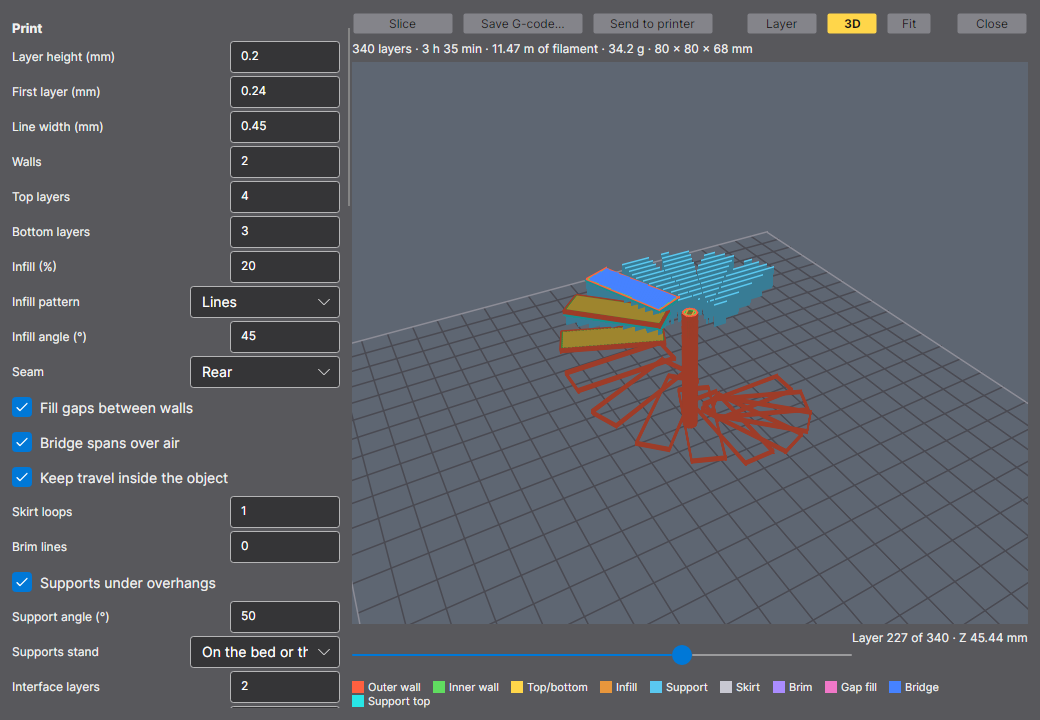
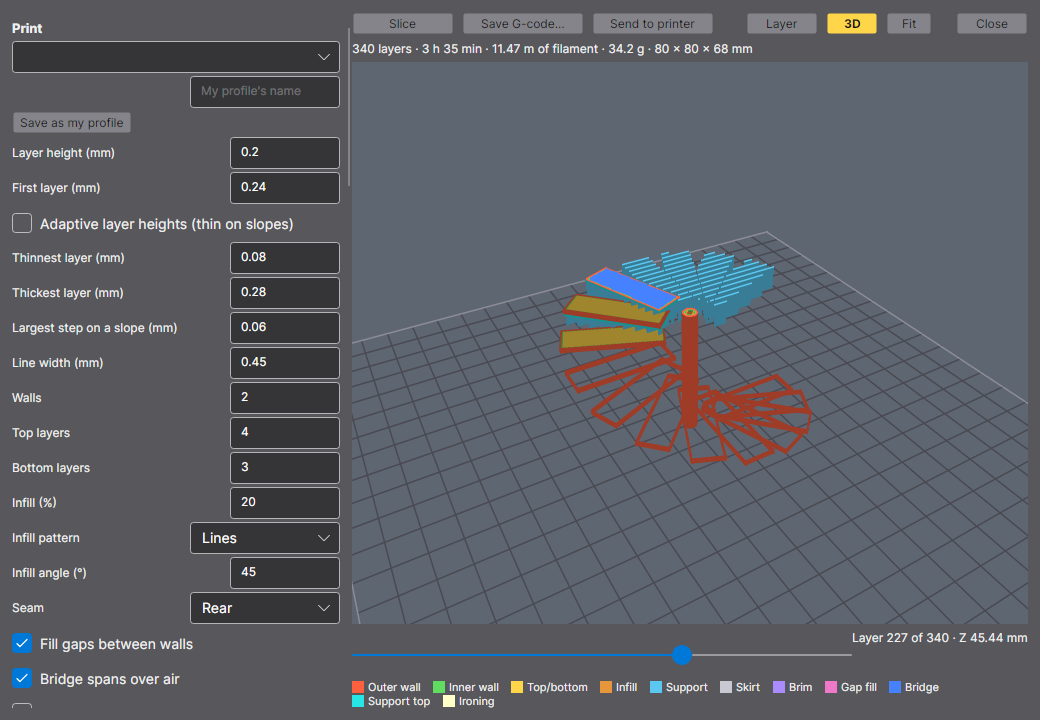
README test counts and the Print window's screenshots

Changed region(s): [[0.0, 0.0306, 0.3385, 1.0], [0.4308, 0.9472, 0.4615, 0.9778]]

diff --git a/README.md b/README.md
@@ -893,22 +893,22 @@ dotnet run --project src/AVAModeler
 dotnet test AVAModeler.slnx
 ```
 
-It needs the .NET 10 SDK. 1294 tests cover every layer:
+It needs the .NET 10 SDK. 1308 tests cover every layer:
 
 | Tests | Count | What they cover |
 |---|---|---|
 | Core | 73 | Math, the mesh and its edge maps, layers, selection modes, undo and grouped edits; UV maps through edits and undo, every projection's maths, image sampling and tiling, PNG and BMP reading, finding images; the noise (its table a permutation, reference values fixed for good, its range and mean), and each procedural at known points or by its statistics: the checkerboard alternating (a floor on a cube's side not speckling), grid lines at their spacing and thickness, dots' size and fuzziness, fractal noise from 0 to 1 with a mean of a half and contrast spreading it, marble's veins along the axis and wood's rings round it, ripples in circles, falloff, settings by name and their limits, and changing a layer's type; the Radiance HDR reader on hand-built files (flat pixels and their shared exponent, new-style run-length scanlines with runs and literals, the old repeat encoding, bottom-up pictures, exposure, what it refuses) and its writer; backdrops: each flat view's axes, an image's size from its shape or a height, its world corners and where world points fall in it, fitting round a box with a margin, sizing from pixels, settings refused out of range, a document keeping them unmodified and in copies, the picture inverted, contrasted and brightened (made once), a missing image's note, setup files round-tripped with relative images (and moved), and the per-object memory (relative images, forgetting, a damaged file, its capacity) in temporary folders |
-| Formats | 93 | LWOB byte-identical round trips (textures included, and hand-built procedural CTEX/BTEX/DTEX/STEX sub-chunk sets: their colours, values, falloff and settings read, an unknown kind kept, edits rewriting only what changed, new procedurals of every kind written and read back), LWLO layers, detail polygons, LWO2 (UV maps, seams and image blocks), GEO, OBJ (`vt` and .mtl maps), image paths, malformed files; glTF: a .glb's structure checked by hand (header, 4-byte chunk alignment, the JSON, POSITION's min and max, buffer views inside the buffer), round trips as .glb, .gltf and .gltf with a .bin (triangle counts, positions, UVs, materials and the embedded image), a known triangle facing the right way after conversion, smooth and flat normals, projected maps baked into UVs, node transforms, strips and outside files, malformed files; STL binary and ASCII round trips, Z up and winding, a binary file that starts with "solid"; LWO2 procedural blocks (known kinds read, others skipped); colour procedurals baked into glTF images, as a box map (each side's checks where they are on a box and a floor) and through a UV map |
+| Formats | 96 | LWOB byte-identical round trips (textures included, and hand-built procedural CTEX/BTEX/DTEX/STEX sub-chunk sets: their colours, values, falloff and settings read, an unknown kind kept, edits rewriting only what changed, new procedurals of every kind written and read back), LWLO layers, detail polygons, LWO2 (UV maps, seams and image blocks), GEO, OBJ (`vt` and .mtl maps), image paths, malformed files; glTF: a .glb's structure checked by hand (header, 4-byte chunk alignment, the JSON, POSITION's min and max, buffer views inside the buffer), round trips as .glb, .gltf and .gltf with a .bin (triangle counts, positions, UVs, materials and the embedded image), a known triangle facing the right way after conversion, smooth and flat normals, projected maps baked into UVs, node transforms, strips and outside files, malformed files; STL binary and ASCII round trips, Z up and winding, a binary file that starts with "solid"; LWO2 procedural blocks (known kinds read, others skipped); colour procedurals baked into glTF images, as a box map (each side's checks where they are on a box and a floor) and through a UV map; 3MF's package, millimetres, objects, colours and winding, its round trip, and a file in inches with components and transforms |
 | Geometry | 110 | Booleans and drills (exact volumes, watertight results, UVs kept), subdivision, the Multiply algorithms, triangulation; the mesh check on known shapes (a closed box's volume, area and centre, a missing face's 4-edge hole, two holes, two shells, a flipped face, an inside-out box with negative volume, a cavity, duplicate and unused points, degenerate and non-manifold polygons, a ball's volume against 4/3·π·r³, non-planar quads, dots and lines, millimetre sizes) and Remove Degenerate; the edge and face tools, each followed by the mesh check: loops across a grid, round a hole's rim and stopped by a triangle, rings round a cylinder and a box, Loop Cut round a box (one cut and three) and a cylinder and across one into its caps, Fill Hole every way on a box missing a face and as quads on an octagon, Bridge between two open boxes (at every starting rotation, without twist, and in segments), between two faces and between edge loops, refusing 4 points against 8, Inset one face (with a frustum's exact volume) and as a group or face by face, Chamfer of one box edge (the prism's volume), rounded (against a quarter circle), three edges at a corner, every edge and a loop of four; UVs on the new points checked against their positions |
 | Rendering | 51 | The four views' projections; a document as the views draw it; the OpenGL camera matrix landing every point where the software one does; shading, smoothing, picking; textures, with the OpenGL renderer's textured picture checked against the software one (on a real OpenGL or OpenGL ES context where there is one); a checkerboard drawn at every pixel of a four-cornered face, value-channel and unknown procedurals leaving the view alone, and marble, fractal noise, wood, dots and a checkerboard drawn by the OpenGL shader as the software renderer draws them (its vertex data and sums, and on a real context); backdrops in the top, front and side views where their world coordinates say (each view's camera axes matching), panning and zooming with the view, not in the other views, under the grid and the wireframe, brightness, contrast, invert and opacity, a missing image's checker, and the OpenGL renderer's backdrop matching the software one (its vertex data and shader sums, and on a real context). The screen door for dissolved layers (dither coverage, faces and wire, the software and OpenGL pictures agreeing); the OpenGL comparison tests share one collection, and `OffscreenGl` makes and closes its contexts one at a time. Sizing an OpenGL view from its framebuffer (the attachment, then the viewport, then the bounds), a real framebuffer's renderbuffer and texture sizes with their bindings put back, and a square drawn at the middle of a framebuffer twice its control's size. |
-| Slicing | 146 | Profiles and their checks, placeholders, the setup's JSON; placing a cube on the bed (20 mm from 2 cm, centred or as modelled, scaled, too big or overhanging said, background layers left out); slicing a cube, a tube's hole, separate and overlapping shells, a solid in a hole, a pyramid's shrinking squares, an open mesh's chains, the last layer ending at the top; Clipper2's offsets, unions, differences, clipped lines and islands; toolpaths (wall lengths, solid layers at the top and bottom only, skin and infill spacing, lines turning each layer, grid both ways, walls round holes, seams at the back, a brim touching the object, supports under a T with their gap and none under a cube, short orders); G-code played back as a printer would (heated and homed first, every line on the object, the filament matching the lines' volume, retraction put back, hops round travel, placeholders, speeds by kind, plain ASCII, a whole file); the same safety checks over cubes, a tube, a ball, a T with supports and two blocks with brims, grids, hops, seams, fine layers, a smaller bed and another material (on the bed, under the height, hot before printing, layers rising, retractions put back); a 9000-triangle ball's cuts within 3% of its true circles, sliced in seconds; a solid cube's plastic matching its volume; and a small print against a reference G-code file; gap fill along a fin too thin for a wall and between walls with no room for another loop (with its own width's filament), bridges across an arch at the angle that lands on both posts with the fan full, quick layers slowed to cool, combing round a hole (and when it can't) cutting a tube's retractions, laying a box on its largest or selected face, turning it, copies in rows, rotations, support interface layers crossways and bed-only supports; every printer preset checked and slicing a cube safely on its own bed (in its own coordinates, with its own retraction), the Creator Pro round its middle with Sailfish homing, round beds, and the new printer settings through JSON; .x3g for the Creator Pro byte for byte on a small program and read back command by command for a cube (heated and waited for with no timeout, homed, every move on the bed, every millimetre of filament to the step, G28 refused); uploads to a fake OctoPrint and Moonraker (the path, the key only in its header, print on or off, refusals, busy and unreachable printers as one line with the key masked, the key's owner-only file); gyroid infill's density, curves and shift with height; move times with acceleration and corners; and every material printing a cube at its temperatures |
+| Slicing | 156 | Profiles and their checks, placeholders, the setup's JSON; placing a cube on the bed (20 mm from 2 cm, centred or as modelled, scaled, too big or overhanging said, background layers left out); slicing a cube, a tube's hole, separate and overlapping shells, a solid in a hole, a pyramid's shrinking squares, an open mesh's chains, the last layer ending at the top; Clipper2's offsets, unions, differences, clipped lines and islands; toolpaths (wall lengths, solid layers at the top and bottom only, skin and infill spacing, lines turning each layer, grid both ways, walls round holes, seams at the back, a brim touching the object, supports under a T with their gap and none under a cube, short orders); G-code played back as a printer would (heated and homed first, every line on the object, the filament matching the lines' volume, retraction put back, hops round travel, placeholders, speeds by kind, plain ASCII, a whole file); the same safety checks over cubes, a tube, a ball, a T with supports and two blocks with brims, grids, hops, seams, fine layers, a smaller bed and another material (on the bed, under the height, hot before printing, layers rising, retractions put back); a 9000-triangle ball's cuts within 3% of its true circles, sliced in seconds; a solid cube's plastic matching its volume; and a small print against a reference G-code file; gap fill along a fin too thin for a wall and between walls with no room for another loop (with its own width's filament), bridges across an arch at the angle that lands on both posts with the fan full, quick layers slowed to cool, combing round a hole (and when it can't) cutting a tube's retractions, laying a box on its largest or selected face, turning it, copies in rows, rotations, support interface layers crossways and bed-only supports; every printer preset checked and slicing a cube safely on its own bed (in its own coordinates, with its own retraction), the Creator Pro round its middle with Sailfish homing, round beds, and the new printer settings through JSON; .x3g for the Creator Pro byte for byte on a small program and read back command by command for a cube (heated and waited for with no timeout, homed, every move on the bed, every millimetre of filament to the step, G28 refused); uploads to a fake OctoPrint and Moonraker (the path, the key only in its header, print on or off, refusals, busy and unreachable printers as one line with the key masked, the key's owner-only file); gyroid infill's density, curves and shift with height; move times with acceleration and corners; and every material printing a cube at its temperatures; two extruders (supports on the other in a second material, both heated, retracting before each change, weighed apart, the part on the second; in .x3g the change and the B axis); print profiles kept and applied; ironing on tops and steps with a tenth of the plastic; adaptive layers thin at a ball's poles and thick round its middle |
 | Tools | 94 | Every tool, the numeric parameters and their checks, the command API, Lua macros (and their time limit), a plugin loaded from its own assembly, the spaceship and logo built from scratch; Make UVs, UVs through every kind of edit, the UV space, the texture commands, macros saving and loading glTF and STL; Select Problems for each kind (and its undo), Align fixing what the check calls flipped, Remove Degenerate (and its undo), and `checkmesh()`; `slice()` (its options, the macro's folder, a table back, nothing changed in the object, its mistakes writing nothing); Select Loop and Ring (from an edge or two points), and Loop Cut, Inset (group and individual), Chamfer, Fill Hole and Bridge on UV-mapped boxes: closed, mapped, undone exactly and redone, their errors, and a macro using `seledges`, `selloop`, `selring` and the new tools; `proctex()` and `texture()` with a procedural's name (settings by name, each call one undo step, mistakes changing nothing) and the procedurals sample; `backdrop()` and `nobackdrop()` (options, relative paths from the macro's folder, Fit and PixelSize, mistakes changing nothing, a missing image's note, backdrops kept through new and load) and the rocket blueprints sample. The Lua sandbox for other apps (their own globals and print, the time limit, no os, io or require, errors as `MacroException`, the table helpers). |
 | Scene | 298 | Transforms, TCB envelopes, cameras, lights, LWS v1/v3 and JSON scenes, bones, morphs, the ray tracer and its textures, filtering and bump maps; procedurals rendered (a marble ball differing from a plain one and the same every time, a checkerboard moving with its object or staying put in world coordinates, a luminosity procedural, fractal-noise and ripple bumps changing the shading but not the silhouette) and kept in .avascene files; scene snapshots (morph and displacement settings included) and copies, aiming an item at a point, object paths relative to the scene; the render effects: with all of them off a busy scene renders byte for byte as before they existed (pinned hashes), ambient occlusion darkening a corner but not the open floor, an area light's shadow with a penumbra where a point light's is hard (and a radius softening point and spot lights), an area light shining from its front only, the environment as the backdrop in every direction (turned by its heading, scaled by its intensity), in a mirror, and lighting a ball's side facing the bright sky, built-in environments and a missing one's warning, depth of field keeping the focused card's edge sharp and blurring the other, LightWave's lens maths, motion blur smearing a moving ball along its path while a still one stays sharp (and a panning camera), the same picture every time on any threads, and every setting through snapshots, copies, .avascene (an environment file stored relatively) and .lws (LightWave 5's and 6's camera lines and area lights); inverse kinematics: a two-bone arm reaching a goal within reach (and following it as it moves), stretched straight toward one out of reach, joint limits keeping rotations in bounds, locked channels keeping their keys, an anchor stopping the chain, the same answer every time, in copies and on many threads, the solved pose bending the object, full-time IK off playing the keys, baking, what can't be a goal, and the settings through snapshots, .avascene and .lws (LightWave 5's `GoalObject` and limits read); following a path: the spline along a line and round a circle (on it, wrapping, evenly by length, turning by one over its radius), an item where its path.position says at each frame, aligned along the tangent and looking ahead, banking into turns with its bank key added, a parented follower and moving points, what can't be a point, points removed, snapshots, copies, .avascene, the .lws warning, and baking; an item's lock through copies, snapshots and .avascene (written only when set). Key spans (TCB unchanged bit for bit, linear, stepped, Bezier the same as Hermite), continuity at keys, behaviours with every span, slopes and time scaling, .avascene and .lws span round trips; motion modifiers (lag, jitter, cycle, oscillate, loops cut whatever is asked first, copies, snapshots, .avascene, a lagged object rendered where its leader was) and .mot files (version 1 and 3 round trips, a LightWave 5 file, malformed ones refused, applying to another item); light effects: shadow maps against ray-traced shadows (no shadow rays, fuzziness, point and distant lights), lens flares (fades behind and off screen, streaks, the intensity envelope, alpha untouched), volumetric beams (inside the cone only, shadowed shafts, samples, fog), the same bytes on any number of threads, and their files; object dissolve (colour and alpha, shadows, wholly dissolved), image sequences (resolving, holding, looping, offsets), sequence textures, background and foreground compositing with colour and alpha keys, warnings, and their copies, snapshots and files; copying items into a scene (`CopyItems`: within it and from another, bones with their object, links among the copies). |
 | Layout | 94 | Layout's session without its controls: how values become keys (the controls' and agents' alike), the modified flag, loading and saving scenes, looking through a camera, what the views draw (a colour procedural moving with its object); undo and redo of every kind of step, a drag as one step, the depth limit, clearing on a new or loaded scene, undoing back to the saved scene; rendering animations (numbering and step, progress, cancelling, the scene copy) and joining them into movies with ffmpeg (its arguments, finding it, doing without it, and a real MP4 and GIF where it's installed); glTF scene export (the hierarchy, a camera and lights, a heading turning the same way, keyed motion sampled every frame, a .gltf with its .bin, and what it leaves out, an area light as a wide spot); the render effects' undo, Focus on (an object's middle, a null, refusing one behind the camera), the area light's and soft light's drawings, a missing environment among the image problems, and Render Animation with motion blur; a banked camera's view tilting a horizon as the ray-traced render does (and its axes where the render has them); IK's Bake and Key IK as undo steps and the goal's line in the view; the dope sheet's rows, choosing keys by click, Shift and box, moving them snapped to frames as one undo step keeping their TCB, replacing keys they land on, scaling about the earliest or a pivot (keys merging), copying and pasting at a frame, deleting all but a channel's last key, and lights' and morphs' channels; path following's Even speed, path.position keyed by the usual rule and in the dope sheet, baking, and the path drawn in the view. `CurveEditor` (curves from SceneChannels, showing and choosing curves, keys across curves and boxes, dragging and nudging, fields, spans and behaviours on several keys, copy and paste onto another channel or item, delete and scale with slopes, each one undo step), keying and retiming keeping spans; motion modifiers and LoadMotion as undo steps, glTF export of modified motion; the light effects' undo steps and view hints; dissolve in the views, SetDissolve, SetImages and SetCompositing as undo steps; undo steps that merge (same name, nothing in between, never across an undo, redo or the saved scene); a Layout scene drawn with OpenGL offscreen matching the software picture. |
 | Mcp | 137 | Every MCP tool group with its errors and undo, the Layout tools included (unknown items and channels, frames out of range, paths outside the working folder, a failed call leaving the scene as it was and no undo step, undo_scene and redo_scene on the shared history, the look-at maths, keys read between frames); morphs (targets copied, mismatches refused, weights keyed), displacements (the wave's maths, renumbering), skelegons → bones and bones' rest settings, each undone; render_animation's movies (with ffmpeg, and without it) and make_movie joining frames rendered in parts (missing frames, mixed sizes); every recipe (prompt) followed call by call through the server and its result checked; whole agent sessions building a table and then staging, animating, rendering, saving and reopening a scene; the live mode through a pipe and the bridge, its UI-thread marshalling, the person's undo taking back an agent's scene step, and its waiting for a busy person; the built app as an MCP server and as a bridge, as real processes; saving and opening .glb, .gltf (with and without a .bin) and .stl (binary and ASCII) through the handlers, a macro and a client, never over someone else's .bin, and export_scene; check_mesh (volumes in m³, inside-out and open meshes with their fixes, layers from 1, bad arguments) and an agent checking, selecting, fixing and checking again through a client; `select_edges`, `select_loop` and `select_ring` (and their mistakes), Loop Cut through `run_tool` as one undo step, and an agent bridging two boxes, rounding every edge and filling a hole through a client, checking each time; `set_procedural` (settings by name, the same layer or a new one, values and amplitudes, its mistakes changing nothing, its description naming every kind and setting with its default) and an agent texturing a floor through a client, seen in render_view and render; the marble table recipe; the render effects through set_scene (one undo step, built-in and file environments), add_light and set_item (area lights, radii, depth of field with focus_on, f-stop or aperture, motion blur), their mistakes changing nothing, render_scene and render_animation honouring them (the rays a pixel counted against the limit), a client reaching them, and the product shot recipe; set_backdrop (placing, changing, fitting, sizing from pixels and clearing, no undo step, paths outside the working folder and files that aren't pictures refused, mistakes changing nothing), render_view showing and framing a backdrop, get_document listing them, and an agent using them through a client; render_scene_view's camera view turning with the camera's bank; set_ik (goals, limits, locks, anchors, full time, its mistakes changing nothing, undo) and bake_ik, directly and through a client; shift_keys and scale_keys (one item or all, one channel, a range, replacing keys, their mistakes); set_follow_path (a closed loop timed by from_frame and to_frame, facing along it, path.position through get_keys and set_key, its mistakes) and bake_path; and the reaching_arm and car_on_loop recipes; set_item's lock (shown only when set, undone); server profiles: every tool in the scene or the modeling group, AVA Modeler's own profile unchanged, and another app's Layout-only server (its tools, recipes, descriptions, instructions and version, add_object asking for a file, its own live pipe and bridge, and its command line). set_key's spans and slopes; add, set and remove_motion_modifier; set_lens_flare, set_volumetric_light and set_shadow_map; load_image, remove_image, set_compositing and set_dissolve; each with errors that change nothing, and undo. slice_to_gcode (a box at a scale to G-code with PETG's temperatures, no undo step; wrong presets, settings and extensions, paths outside the working folder and someone else's file refused, writing nothing; too big for the bed warned of; nothing to print; laid flat, turned, copied and bed-only supports; `slice()` in an agent's macro kept to the working folder). |
 | Hub | 12 | The hub's wire on pipes of the tests' own: a message answered, a refusal and a handler's failure coming back as their reasons, bad messages refused before the app sees them, one listener a pipe (and starting again after stopping), an app that isn't there said quickly, per-app per-user pipe names, the owner-only hand-over folder and its file names, and finding the other program (a setting, beside this one, a sibling folder, the PATH, a development .dll run with dotnet) and its command line, never started for real. `object_changed` on the wire (full paths only), one live file per link, files written whole. |
 | Chat | 57 | The chat's agent loop against a fake Anthropic API (no real calls): a conversation that makes a ball, looks at it and answers, with the picture going back as an image block; the tools sent being exactly the MCP server's; prompt-cache breakpoints; tool errors, 401, 429, 529, 500 and network failures with Retry; the step cap, and Auto-continue carrying on past it by itself, then stopping at its ceiling; Stop while a reply streams and while a call waits for a busy person; New Chat in the middle of a request; the API key's file (owner-only) and masking. The same against a fake OpenAI-compatible server (no real server): streamed text, tool calls whose names and arguments arrive in pieces put together and run, several calls in one turn, the request's tools, tool messages and image parts checked as JSON, pictures as a note for a model that can't see them, the core tool set, 401, 404 (model not found), 400 (no tool support, no images), 429, 500 and a refused connection as one line with Retry, a gateway's key only in its header and masked even when echoed back, Stop mid-reply, the tool limit and Auto-continue, arguments that aren't JSON, an answer that isn't streamed, a reply cut short, a missing model or bad base URL, switching provider, model lists in OpenAI's and Ollama's shapes, and the gateway key's own owner-only file; chat history in a temporary folder: a Claude chat saved, opened in a new session and carried on with the same tool_use ids, results and picture in Anthropic's format, and an OpenAI-compatible one in its own (tool_calls and tool messages); another provider's chat read-only until that provider is chosen again; no key (Anthropic's or a gateway's) in any file, and owner-only files; pictures over the limit left out and said to be; newest first, delete, clear, damaged files and bad ids; Markdown export with pictures beside it; a chat saved mid-request carrying on with its calls answered; another app's own system prompt and core tools for both providers, its profile's tools, and its name in exported chats |
-| UI | 129 | The window, mouse and keyboard driven through a headless window, the numeric panel folding (N) and a requester opening it, the chat's Auto-continue box, the UV view, the texture panel (its Texture type list turning a layer into a procedural and back, the procedural's settings shown, one undo step, an unknown kind shown as not drawn), Layout (its Ctrl+Z, Ctrl+Shift+Z and Ctrl+Y, and Edit › Undo and Redo) and its Render Animation window, an AI agent working in the open window and in its Layout scene, the AI Chat panel (a fake Claude making a ball that Ctrl+Z undoes, a missing key, Retry, Stop while the person is busy; switching to a fake local server in Setup…, Refresh listing its models, building with it and switching back; Preferences reaching the panel; a server that isn't running), the chat settings' preferences round trip, Mesh Info (W, following the object, its Select button and Ctrl+Z, its Align button sparing a cavity, the menu and tabs), the new tools' buttons, keys (Alt+L, Alt+R, I, Ctrl+B) and menu items, a Loop Cut dragged with no edge saying why and changing nothing, Mesh Info's Fill Hole button, and the screenshots (one of the still life opened again from a .glb, one of Mesh Info, one of the edge tools, one of the chat on a local model, the procedurals in the view, the texture panel and a ray-traced frame); Scene Settings' ambient occlusion and environment (one undo step, bad values and a missing picture refused), the camera panel's depth of field, Focus on and motion blur, the light panel's area size, radius and shadow samples, and the render effects' screenshots (the showcase, a motion-blurred frame and the settings panel); the Backdrop panel (D, the Display tab, typed numbers changing the view at once, the height and Keep shape, Fit to Object, Size from Pixels, a missing image's note, Clear), Save and Load Setup, backdrops kept through New, remembered for an object's file (in a temporary folder) and back when it's opened, a missing one's checker and note, and the blueprints screenshot; the IK settings in the bone panel (goal choices, limits typed in, locks, anchor, Bake IK and Ctrl+Z); the dope sheet (D and View › Dope Sheet, click, Shift-click, dragging keys in time, a box, arrows, Delete, Ctrl+C and Ctrl+V, Ctrl+A and Scale ×, scrubbing the frames); the item panel's path (points chosen, Follow a path, Closed, Even speed, Bake path, undo); chat history (off by default, Keep chat history saving at once and after each request, History's list, opening, exporting, deleting and clearing, the last chat back in a new window, another provider's read-only and back); and the screenshots of the dope sheet with a car on its path, an IK arm through a banked camera, and the chat history; Layout's view for other hosts (the mouse modes, the axes, the edit-mode pick filter, locked items left alone, the light view) and the item panel's extras; the chat panel's wording for another app; and the hub in a window on pipes of the tests' own (Edit in Modeler opening an object and linking it, refused over unsaved work, a save telling AVALightWave with the link, Send to AVALightWave handing over an unsaved object as a copy and keeping its link, and starting AVALightWave, faked, when it isn't there). The graph editor (the curve list, click, Shift and box choosing, value and time drags, arrows, the key panel on two keys as one step, spans, behaviours, copying onto another channel, Scale ×, Ctrl+Z); live sync to a stand-in AVALightWave (debounced, a readable copy, not when unlinked or turned off, not during a drag, never holding up edits) and the hub status line; SceneView drawing no scene for an OpenGL surface under it, and GlSurface where OpenGL can't start. The 3D Print window (File › 3D Print and the Objects tab, one window; slicing on a worker and the layer slider; the setup kept in the preferences; out of date after an edit or a change of setting; bad numbers said and nothing sliced; Save G-code slicing first; your own printer and material beside the presets, a preset's name refused; an open mesh and an empty object reported; copies; the 3D view stacking layers, turning and going back; choosing the Creator Pro and a delta from the presets, their notes and beds, saving .x3g, a material's notes, and Send to printer to a fake OctoPrint keeping the key out of the preferences) and its screenshots. |
+| UI | 130 | The window, mouse and keyboard driven through a headless window, the numeric panel folding (N) and a requester opening it, the chat's Auto-continue box, the UV view, the texture panel (its Texture type list turning a layer into a procedural and back, the procedural's settings shown, one undo step, an unknown kind shown as not drawn), Layout (its Ctrl+Z, Ctrl+Shift+Z and Ctrl+Y, and Edit › Undo and Redo) and its Render Animation window, an AI agent working in the open window and in its Layout scene, the AI Chat panel (a fake Claude making a ball that Ctrl+Z undoes, a missing key, Retry, Stop while the person is busy; switching to a fake local server in Setup…, Refresh listing its models, building with it and switching back; Preferences reaching the panel; a server that isn't running), the chat settings' preferences round trip, Mesh Info (W, following the object, its Select button and Ctrl+Z, its Align button sparing a cavity, the menu and tabs), the new tools' buttons, keys (Alt+L, Alt+R, I, Ctrl+B) and menu items, a Loop Cut dragged with no edge saying why and changing nothing, Mesh Info's Fill Hole button, and the screenshots (one of the still life opened again from a .glb, one of Mesh Info, one of the edge tools, one of the chat on a local model, the procedurals in the view, the texture panel and a ray-traced frame); Scene Settings' ambient occlusion and environment (one undo step, bad values and a missing picture refused), the camera panel's depth of field, Focus on and motion blur, the light panel's area size, radius and shadow samples, and the render effects' screenshots (the showcase, a motion-blurred frame and the settings panel); the Backdrop panel (D, the Display tab, typed numbers changing the view at once, the height and Keep shape, Fit to Object, Size from Pixels, a missing image's note, Clear), Save and Load Setup, backdrops kept through New, remembered for an object's file (in a temporary folder) and back when it's opened, a missing one's checker and note, and the blueprints screenshot; the IK settings in the bone panel (goal choices, limits typed in, locks, anchor, Bake IK and Ctrl+Z); the dope sheet (D and View › Dope Sheet, click, Shift-click, dragging keys in time, a box, arrows, Delete, Ctrl+C and Ctrl+V, Ctrl+A and Scale ×, scrubbing the frames); the item panel's path (points chosen, Follow a path, Closed, Even speed, Bake path, undo); chat history (off by default, Keep chat history saving at once and after each request, History's list, opening, exporting, deleting and clearing, the last chat back in a new window, another provider's read-only and back); and the screenshots of the dope sheet with a car on its path, an IK arm through a banked camera, and the chat history; Layout's view for other hosts (the mouse modes, the axes, the edit-mode pick filter, locked items left alone, the light view) and the item panel's extras; the chat panel's wording for another app; and the hub in a window on pipes of the tests' own (Edit in Modeler opening an object and linking it, refused over unsaved work, a save telling AVALightWave with the link, Send to AVALightWave handing over an unsaved object as a copy and keeping its link, and starting AVALightWave, faked, when it isn't there). The graph editor (the curve list, click, Shift and box choosing, value and time drags, arrows, the key panel on two keys as one step, spans, behaviours, copying onto another channel, Scale ×, Ctrl+Z); live sync to a stand-in AVALightWave (debounced, a readable copy, not when unlinked or turned off, not during a drag, never holding up edits) and the hub status line; SceneView drawing no scene for an OpenGL surface under it, and GlSurface where OpenGL can't start. The 3D Print window (File › 3D Print and the Objects tab, one window; slicing on a worker and the layer slider; the setup kept in the preferences; out of date after an edit or a change of setting; bad numbers said and nothing sliced; Save G-code slicing first; your own printer and material beside the presets, a preset's name refused; an open mesh and an empty object reported; copies; the 3D view stacking layers, turning and going back; choosing the Creator Pro and a delta from the presets, their notes and beds, saving .x3g, a material's notes, and Send to printer to a fake OctoPrint keeping the key out of the preferences; a print profile filling the settings and your own saved; the Creator Pro's second extruder for supports) and its screenshots. |
 
 The screenshots are drawn by the tests in a real (headless) window:
 
